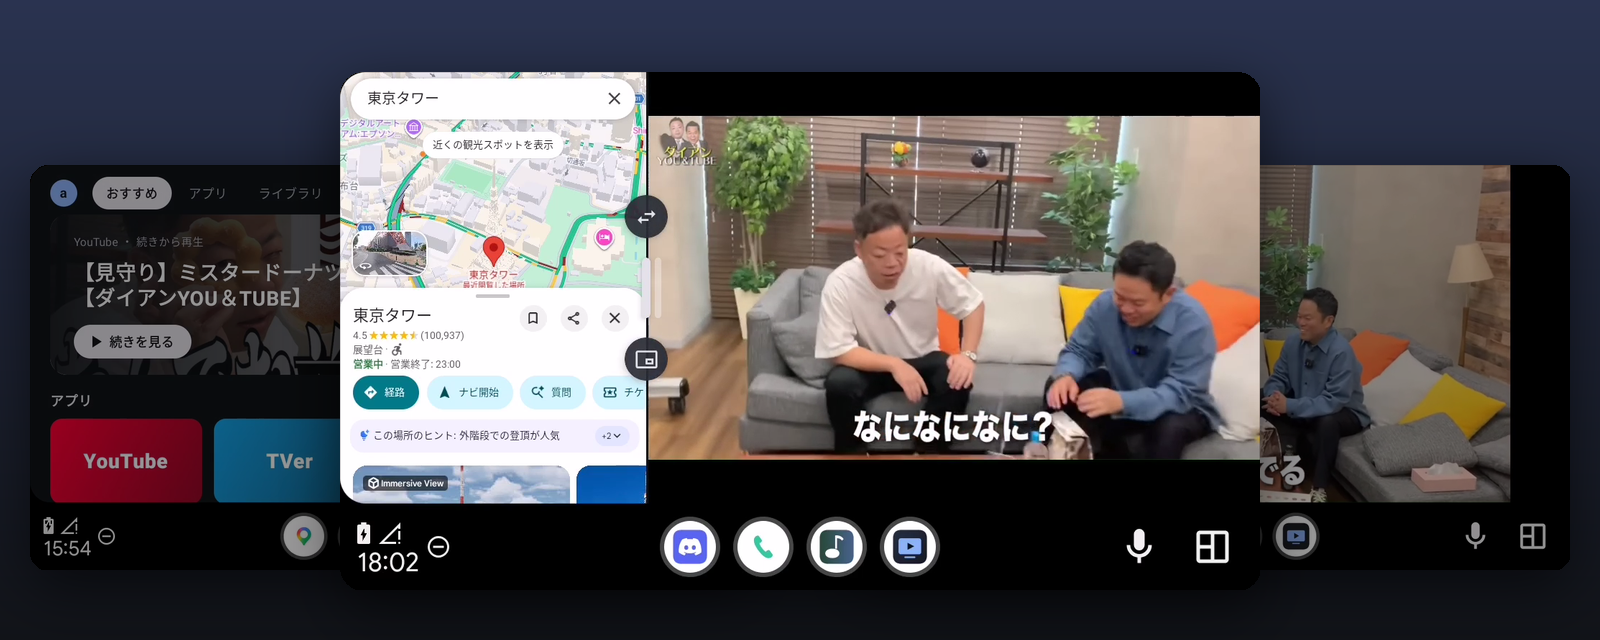
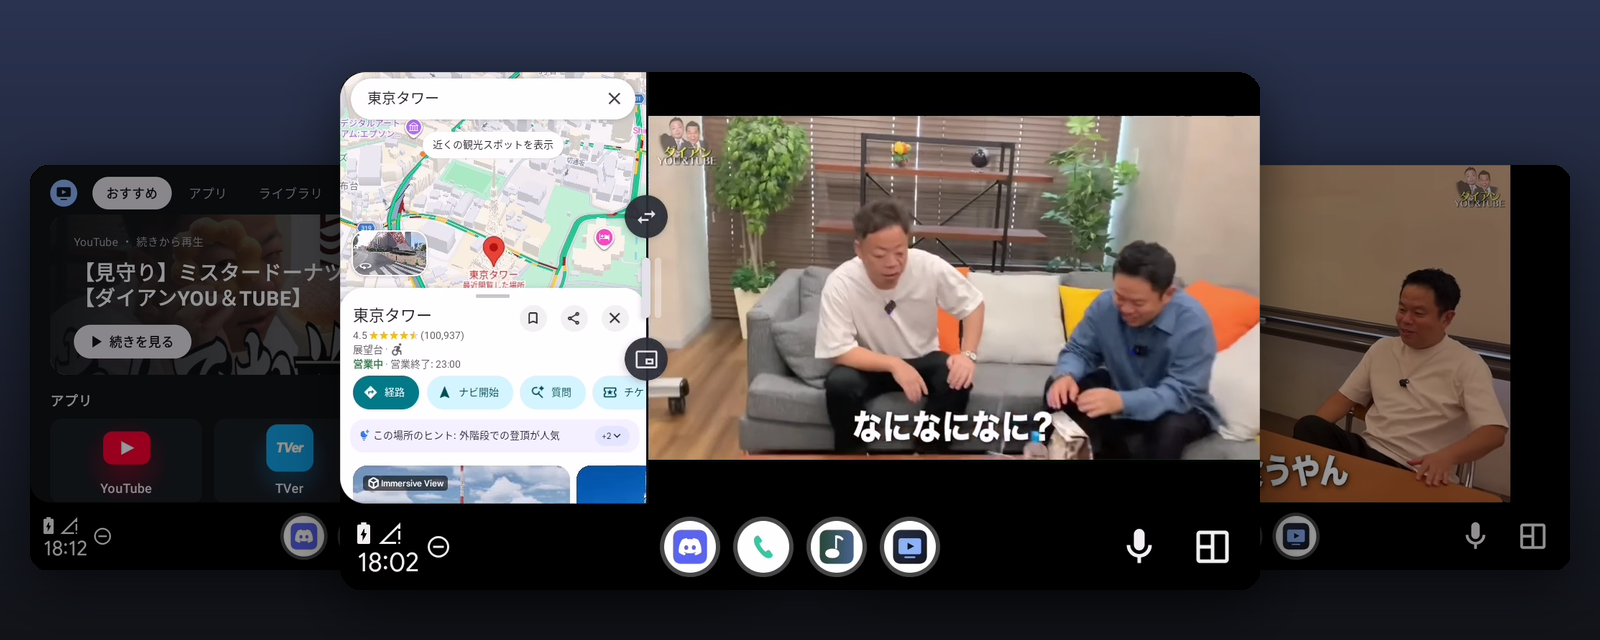
docs: README から絵文字をなくし、いろんな配信サイトで見るアプリとして書き直す
- 「対応サイト」と「サイトを追加する」の節を追加 (YouTube / TVer 専用に見えないようにする)
- GitHub の Social preview 用の画像 (docs/social-preview.png) を追加
- readme-hero.py を readme-images.py にして、トップ画像と Social preview を一緒に作る

diff --git a/scripts/readme-images.py b/scripts/readme-images.py
@@ -1,35 +1,43 @@
 #!/usr/bin/env python3
-"""README の一番上の画像 (docs/hero.png) を、docs/screenshots のスクリーンショットから作る。
+"""README とリポジトリの紹介用の画像を、docs/screenshots のスクリーンショットから作る。
 
-    python3 scripts/readme-hero.py        # Pillow が必要 (pip install pillow)
+    python3 scripts/readme-images.py      # Pillow が必要 (pip install pillow)
 
-中央に「動画の横に地図」、左右の奥にホームと YouTube の再生画面を重ねる。
-背景はアプリアイコンと同じ紺のグラデーション。
+- docs/hero.png: README の一番上。中央に「動画の横に地図」、左右の奥にホームと YouTube の再生画面
+- docs/social-preview.png: GitHub の Social preview (OGP、1280x640)。
+  リポジトリの Settings → General → Social preview からアップロードする
+背景はどちらもアプリアイコンと同じ紺のグラデーション。文字は macOS の Avenir Next を使う。
 """
 from pathlib import Path
 
-from PIL import Image, ImageDraw, ImageEnhance, ImageFilter
+from PIL import Image, ImageDraw, ImageEnhance, ImageFilter, ImageFont
 
 ROOT = Path(__file__).resolve().parent.parent
 SHOTS = ROOT / "docs" / "screenshots"
-OUT = ROOT / "docs" / "hero.png"
+HERO = ROOT / "docs" / "hero.png"
+SOCIAL = ROOT / "docs" / "social-preview.png"
+FONT = "/System/Library/Fonts/Avenir Next.ttc"
+BOLD, MEDIUM = 0, 5  # Avenir Next.ttc の中の書体の番号
 
 W, H = 1600, 640
 TOP, BOTTOM = (0x2A, 0x33, 0x50), (0x11, 0x13, 0x18)  # ic_launcher_background と同じ色
 
 
-def gradient() -> Image.Image:
-    img = Image.new("RGB", (W, H))
+def gradient(w: int = W, h: int = H) -> Image.Image:
+    img = Image.new("RGB", (w, h))
     draw = ImageDraw.Draw(img)
-    for y in range(H):
-        t = y / (H - 1)
-        draw.line([(0, y), (W, y)], fill=tuple(round(a + (b - a) * t) for a, b in zip(TOP, BOTTOM)))
+    for y in range(h):
+        t = y / (h - 1)
+        draw.line([(0, y), (w, y)], fill=tuple(round(a + (b - a) * t) for a, b in zip(TOP, BOTTOM)))
     return img
 
 
-def card(name: str, width: int, dim: float = 1.0) -> Image.Image:
-    """角を丸めたスクリーンショット。dim < 1 で奥にあるように暗くする"""
+def card(name: str, width: int, dim: float = 1.0, app_only: bool = False) -> Image.Image:
+    """角を丸めたスクリーンショット。dim < 1 で奥にあるように暗くする。
+    app_only なら下の Android Auto のバー (720 中 120px) を切り落としてアプリの画面だけにする"""
     shot = Image.open(SHOTS / f"{name}.png").convert("RGB")
+    if app_only:
+        shot = shot.crop((0, 0, shot.width, shot.height * 600 // 720))
     shot = shot.resize((width, round(shot.height * width / shot.width)), Image.LANCZOS)
     if dim < 1:
         shot = ImageEnhance.Brightness(shot).enhance(dim)
@@ -48,7 +56,29 @@ def paste_with_shadow(canvas: Image.Image, img: Image.Image, x: int, y: int) -> 
     canvas.alpha_composite(img, (x, y))
 
 
-def main() -> None:
+def font(size: int, face: int) -> ImageFont.FreeTypeFont:
+    try:
+        return ImageFont.truetype(FONT, size, index=face)
+    except OSError:
+        return ImageFont.load_default(size)
+
+
+def logo(size: int) -> Image.Image:
+    """アプリアイコン (res/drawable/ic_launcher_*.xml) と同じ図柄。72x72 の範囲を size に拡大して描く"""
+    k = size / 72
+    img = gradient(size, size).convert("RGBA")
+    mask = Image.new("L", (size, size), 0)
+    ImageDraw.Draw(mask).rounded_rectangle([0, 0, size, size], radius=round(18 * k), fill=255)
+    img.putalpha(mask)
+    d = ImageDraw.Draw(img)
+    p = lambda x, y: ((x - 18) * k, (y - 18) * k)  # noqa: E731 アイコンの座標 (18〜90) をこの画像の座標に
+    d.rounded_rectangle([*p(30, 36), *p(78, 70)], radius=5 * k, fill="#8AB4F8")
+    d.polygon([p(49, 45.5), p(63, 53), p(49, 60.5)], fill="#111318")
+    d.rounded_rectangle([*p(44, 74.5), *p(64, 78)], radius=1.75 * k, fill="#8AB4F8")
+    return img
+
+
+def hero() -> None:
     canvas = gradient().convert("RGBA")
     back_w, front_w = 720, 920
     left = card("home", back_w, dim=0.6)
@@ -58,8 +88,32 @@ def main() -> None:
     paste_with_shadow(canvas, left, 30, back_y)
     paste_with_shadow(canvas, right, W - back_w - 30, back_y)
     paste_with_shadow(canvas, front, (W - front_w) // 2, H - front.height - 50)
-    canvas.convert("RGB").save(OUT, optimize=True)
-    print(f"wrote {OUT.relative_to(ROOT)}")
+    canvas.convert("RGB").save(HERO, optimize=True)
+    print(f"wrote {HERO.relative_to(ROOT)}")
+
+
+def social_preview() -> None:
+    w, h = 1280, 640
+    canvas = gradient(w, h).convert("RGBA")
+    # 右側にスクリーンショット (右端は少しはみ出させる)
+    shot = card("map-split", 760, app_only=True)
+    paste_with_shadow(canvas, shot, w - 590, (h - shot.height) // 2)
+    # 左側にロゴと名前、説明
+    canvas.alpha_composite(logo(112), (80, 128))
+    d = ImageDraw.Draw(canvas)
+    d.text((80, 262), "aweauto", font=font(92, BOLD), fill="#FFFFFF")
+    d.text((84, 378), "Streaming sites on Android Auto", font=font(36, MEDIUM), fill="#8AB4F8")
+    for i, line in enumerate(["Google TV–style player", "Your map app alongside", "Turn-by-turn on the HUD"]):
+        y = 448 + i * 46
+        d.ellipse([86, y + 11, 96, y + 21], fill="#8AB4F8")
+        d.text((112, y), line, font=font(28, MEDIUM), fill="#C9D1E4")
+    canvas.convert("RGB").save(SOCIAL, optimize=True)
+    print(f"wrote {SOCIAL.relative_to(ROOT)}")
+
+
+def main() -> None:
+    hero()
+    social_preview()
 
 
 if __name__ == "__main__":

diff --git a/README.md b/README.md
@@ -4,7 +4,7 @@
 
 # aweauto
 
-**YouTube and TVer on Android Auto, in a Google TV–style UI.**<br>
+**Watch streaming sites on Android Auto, in a Google TV–style UI.**<br>
 Your real map app runs right beside the video, and its turn-by-turn goes to the car's HUD.
 
 No root · Android Auto stays untouched · Just sideload one app
@@ -14,13 +14,13 @@ No root · Android Auto stays untouched · Just sideload one app
 [![Jetpack Compose](https://img.shields.io/badge/Jetpack%20Compose-M3-4285F4?style=flat-square&logo=jetpackcompose&logoColor=white)](app)
 [![Car App Library](https://img.shields.io/badge/Car%20App%20Library-1.4-1A73E8?style=flat-square&logo=androidauto&logoColor=white)](https://developer.android.com/training/cars/apps)
 
-[Features](#features) · [Screenshots](#screenshots) · [Install](#install) · [How it works](#how-it-works) · [Development](#development)
+[Features](#features) · [Sites](#sites) · [Screenshots](#screenshots) · [Install](#install) · [How it works](#how-it-works) · [Development](#development)
 
 English · [日本語](README.ja.md)
 
 <br>
 
-<img src="docs/hero.png" alt="aweauto on an Android Auto display: Google Maps beside a YouTube video">
+<img src="docs/hero.png" alt="aweauto on an Android Auto display: Google Maps beside a video">
 
 </div>
 
@@ -33,19 +33,19 @@ English · [日本語](README.ja.md)
 <tr>
 <td width="33%" valign="top">
 
-### 📺 Google TV–style home
+### Google TV–style home
 Hero banner, shelves, a watch-history library and a clock, sized for a touchscreen in the dash.
 
 </td>
 <td width="33%" valign="top">
 
-### ▶ YouTube & TVer, tuned for the car
-Dark theme, a 3-column grid, a full-bleed player, auto-unmute. Shorts and app banners are gone.
+### Any site, tuned for the car
+Each site gets its own CSS and JS for a car screen: dark theme, big grids, a full-bleed player. YouTube and TVer come built in.
 
 </td>
 <td width="33%" valign="top">
 
-### 📲 Cast from your phone
+### Cast from your phone
 Tap the cast button in the official YouTube app. You can also share any video to "車の画面".
 
 </td>
@@ -53,19 +53,19 @@ Tap the cast button in the official YouTube app. You can also share any video to
 <tr>
 <td valign="top">
 
-### 🗺 Your map app, side by side
+### Your map app, side by side
 The real Google Maps or Yahoo! MAP runs next to the video. You can touch it, resize it, swap sides or shrink it to a picture-in-picture window.
 
 </td>
 <td valign="top">
 
-### 🧭 Turn-by-turn on the HUD
+### Turn-by-turn on the HUD
 The guidance of the map app you're navigating with goes to the car's head-up display and instrument cluster.
 
 </td>
 <td valign="top">
 
-### 📶 Made for dead zones
+### Made for dead zones
 TVer episodes are saved to disk as you watch, so tunnels don't stop them. You can cap the quality for slow networks.
 
 </td>
@@ -73,19 +73,19 @@ TVer episodes are saved to disk as you watch, so tunnels don't stop them. You ca
 <tr>
 <td valign="top">
 
-### 🛡 Ad blocking
+### Ad blocking
 AdGuard DNS, EasyList and AdGuard Japanese rules, plus YouTube video ads removed from the player.
 
 </td>
 <td valign="top">
 
-### 🕶 Immersive playback
+### Immersive playback
 The side rail hides while a video plays. Until playback starts, you see the thumbnail instead of a grey box.
 
 </td>
 <td valign="top">
 
-### 🔁 Picks up where you left off
+### Picks up where you left off
 The video and map survive camera interruptions and screen switches. Shizuku is restarted on its own after you plug in.
 
 </td>
@@ -95,14 +95,14 @@ The video and map survive camera interruptions and screen switches. Shizuku is r
 <details>
 <summary><b>All the details</b></summary>
 
-- **Site tweaks.** Each site gets its own CSS/JS: a dark theme, a 3-column search grid, a full-bleed player and auto-unmute. TVer's pre-roll survey is answered for you. Shorts, app banners and the bottom tab bar are hidden. Each site can be switched off in Settings.
+- **Site tweaks.** Each site can be switched off in Settings. See [Sites](#sites) for what each one changes.
 - **Casting.**
   - On the same Wi-Fi or hotspot, **aweauto (車)** shows up in the YouTube cast menu by itself (DIAL).
   - Anywhere else, link once with *Link with TV code* (the Lounge protocol). This also works over mobile data. The code and a QR are shown on the car screen.
   - "車の画面" is also published as a direct-share target.
 - **Ad blocking.** Domain rules from the filter lists are refreshed daily. YouTube video ads are stripped from the player response.
 - **TVer offline cache.** Every HLS segment of the episode you're watching is downloaded into a 2 GB disk cache and served to the player from there.
-- **Quality cap.** Auto, 720p, 480p or 360p, for both sites. *Experimental:* a longer read-ahead for YouTube.
+- **Quality cap.** Auto, 720p, 480p or 360p, for YouTube and TVer. *Experimental:* a longer read-ahead for YouTube.
 - **Map pane** *(needs [Shizuku](https://shizuku.rikka.app/))*.
   - Any installed map or navigation app that can be opened from the home screen is offered automatically.
   - Waze is left out, because it locks its own screen while Android Auto is connected.
@@ -113,6 +113,17 @@ The video and map survive camera interruptions and screen switches. Shizuku is r
   - What actually appears depends on the car. This needs notification access.
 
 </details>
+
+## Sites
+
+aweauto isn't tied to one service. A site is a single entry in [`StreamService`](app/src/main/java/com/h1rose/aweauto/data/StreamService.kt) plus a stylesheet, and anything else is optional. These are built in today:
+
+| Site | What's tuned | Extras |
+|---|---|---|
+| **YouTube** | Dark theme, 3-column search grid, full-bleed player, auto-unmute. Shorts, app banners and the bottom tab bar are hidden. | Casting from the YouTube app, video ad removal, quality cap |
+| **TVer** | Dark theme, full-bleed player. The pre-roll survey is answered for you, and app prompts and the footer are hidden. | Episodes cached to disk while you watch, quality cap |
+
+Want another site? See [Adding a site](#adding-a-site).
 
 ## Screenshots
 
@@ -159,9 +170,9 @@ scripts/aw.sh deploy
 
 | For | Do this once |
 |---|---|
-| 🗺 Map pane | Install [Shizuku](https://shizuku.rikka.app/) and start it with `scripts/aw.sh shizuku`. After that, `scripts/aw.sh tcpip` lets aweauto restart Shizuku by itself in the car. |
-| 🧭 HUD guidance | aweauto Settings → **Notification access** → allow aweauto |
-| 📲 Casting away from Wi-Fi | Tap the cast icon on the car home screen. In the YouTube app, go to **You → Settings → Watch on TV → Link with TV code** and enter the code shown. |
+| Map pane | Install [Shizuku](https://shizuku.rikka.app/) and start it with `scripts/aw.sh shizuku`. After that, `scripts/aw.sh tcpip` lets aweauto restart Shizuku by itself in the car. |
+| HUD guidance | aweauto Settings → **Notification access** → allow aweauto |
+| Casting away from Wi-Fi | Tap the cast icon on the car home screen. In the YouTube app, go to **You → Settings → Watch on TV → Link with TV code** and enter the code shown. |
 
 ## How it works
 
@@ -170,7 +181,7 @@ flowchart LR
     subgraph Phone
         CAS[CarAppService<br/>NAVIGATION category] -- Surface --> VD[VirtualDisplay]
         VD --> UI[Compose UI]
-        UI --> WV[WebView<br/>YouTube / TVer]
+        UI --> WV[WebView<br/>streaming sites]
         WV -. injects .-> JS[CSS / JS tweaks<br/>ad-block · quality]
         UI --> MP[Map pane]
         MP -- Surface --> SH[Shizuku user service<br/>VirtualDisplay + input]
@@ -201,13 +212,21 @@ flowchart LR
 |---|---|
 | `scripts/aw.sh deploy` | Build and install |
 | `scripts/aw.sh dhu` | Start the [Desktop Head Unit](https://developer.android.com/training/cars/testing/dhu) to try it without a car |
-| `scripts/aw.sh send <url>` | Open a YouTube or TVer URL on the car screen |
+| `scripts/aw.sh send <url>` | Open a site's URL on the car screen |
 | `scripts/aw.sh logs` | Follow aweauto's logs |
 | `scripts/aw.sh devtools` | Inspect the WebView from Chrome DevTools |
 | `scripts/aw.sh mute on` | Keep videos muted while you debug |
 | `scripts/aw.sh e2e-map --apps all` | End-to-end test of the map pane on a real phone |
 | `scripts/aw.sh readme-shots` | Retake the README screenshots from the DHU |
 | `./gradlew :app:testDebugUnitTest` | Unit tests |
+
+### Adding a site
+
+1. Add an entry to [`StreamService`](app/src/main/java/com/h1rose/aweauto/data/StreamService.kt) with its home URL, hosts, brand color and user agent. It then shows up on the home screen and in Settings, and links to it can be shared to the car screen.
+2. Put a stylesheet at `app/src/main/assets/css/<id>.css`. Most of the work is here: hide what doesn't fit a car screen and make the player fill it.
+3. Optionally add `app/src/main/assets/js/<id>.js` for behavior (it's injected at document start), and a mark in [`BrandIcon.kt`](app/src/main/java/com/h1rose/aweauto/ui/BrandIcon.kt). Without a mark, the site's initial on its brand color is used.
+
+Use `scripts/aw.sh devtools` to inspect the page in Chrome while you write the CSS.
 
 <details>
 <summary><b>More on the DHU, E2E and screenshots</b></summary>
@@ -221,21 +240,21 @@ flowchart LR
 - **Screenshots.** Close any running DHU, then run `scripts/aw.sh readme-shots`. Use `--only home,settings` to retake just some of them.
   - It starts a 1280×720 DHU. Open each requested screen and press Enter.
   - For the map shots, the map shows Tokyo, so your home and account don't appear.
-  - Afterwards, `python3 scripts/readme-hero.py` rebuilds `docs/hero.png` (needs Pillow).
+  - Afterwards, `python3 scripts/readme-images.py` rebuilds `docs/hero.png` and the GitHub social preview `docs/social-preview.png` (needs Pillow). Upload the social preview in the repository's **Settings → General → Social preview**.
 
 </details>
 
 ## Limitations
 
 - **Android Auto's own UI stays.** Apps can't hide its system bar or the small back button it overlays.
-- **Sites change.** The tweaks depend on YouTube's and TVer's pages and player internals, and may break when those change.
+- **Sites change.** The tweaks depend on each site's pages and player internals, and may break when those change.
 - **YouTube can't be cached ahead.** Its web player streams over SABR, whose POST requests can't be predicted or served from WebView. Read-ahead tops out at about 2 minutes.
 - **TVer is Japan only.** It needs a Japanese IP address.
 - **HUD support depends on the car.** Some cars only show their built-in navigation on the HUD.
 
 ## Disclaimer
 
-aweauto is an unofficial personal project. It isn't affiliated with or endorsed by Google, YouTube or TVer. It uses undocumented APIs and modifies third-party web pages, which may be against those services' terms. Use it at your own risk.
+aweauto is an unofficial personal project. It isn't affiliated with or endorsed by Google or any of the streaming services it opens. It uses undocumented APIs and modifies third-party web pages, which may be against those services' terms. Use it at your own risk.
 
 ## Acknowledgements
 
